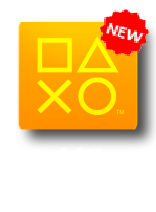
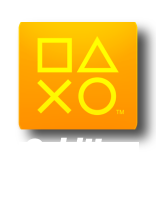
GoldHen 2.2 Added

Changed region(s): [[0.641, 0.0283, 0.9744, 0.283], [0.1795, 0.6226, 0.8974, 0.7075]]

diff --git a/ps4/index.html b/ps4/index.html
@@ -288,8 +288,8 @@ Este host está basado enteramente en el trabajo de Karo Sharifi. Todo los credi
     <div id=all style="text-align:center">
     <button class="head-boton-size azul-bg" id="button-Payload" onMouseOver="progress.innerHTML='GoldHen v2.0 b by SISTR0 for PS4 9.00 Fw'"; onmouseout="progress.innerHTML='Status'" type="button" onclick="goldhen()"><div style="text-align: center;"><img src="gh_v2b.png" width="80" height="100"></div></button>
     <button class="head-boton-size azul-bg" id="button-Payload" onMouseOver="progress.innerHTML='GoldHen v2.0 b2 by SISTR0 for PS4 9.00 Fw'"; onmouseout="progress.innerHTML='Status'" type="button" onclick="goldhen2()"><div style="text-align: center;"><img src="gh_v2b2.png" width="80" height="100""></div></button>
-    <button class="head-boton-size azul-bg" id="button-Payload" onMouseOver="progress.innerHTML='GoldHen v2.1.2 by SISTR0 for PS4 9.00 Fw'"; onmouseout="progress.innerHTML='Status'" type="button" onclick="goldhen212()"><div style="text-align: center;"><img src="gh_v2b2.png" width="80" height="100"></div></button>
-    <button class="head-boton-size azul-bg" id="button-Payload" onMouseOver="progress.innerHTML='GoldHen v2.1.2 by SISTR0 for PS4 9.00 Fw'"; onmouseout="progress.innerHTML='Status'" type="button" onclick="goldhen22()"><div style="text-align: center;"><img src="gh_v212.png" width="80" height="100"></div></button>
+    <button class="head-boton-size azul-bg" id="button-Payload" onMouseOver="progress.innerHTML='GoldHen v2.1.2 by SISTR0 for PS4 9.00 Fw'"; onmouseout="progress.innerHTML='Status'" type="button" onclick="goldhen212()"><div style="text-align: center;"><img src="gh_v212.png" width="80" height="100"></div></button>
+    <button class="head-boton-size azul-bg" id="button-Payload" onMouseOver="progress.innerHTML='GoldHen v2.1.2 by SISTR0 for PS4 9.00 Fw'"; onmouseout="progress.innerHTML='Status'" type="button" onclick="goldhen22()"><div style="text-align: center;"><img src="gh_v22.png" width="80" height="100"></div></button>
     <br>
     <br>
     <div class="SelectF"><input type="text" placeholder="PS4 IP Here" id="psip"></div>
